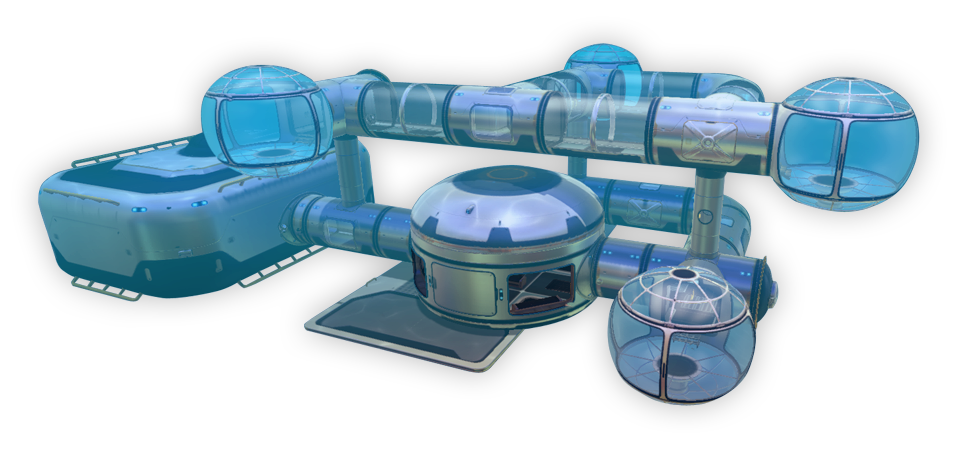
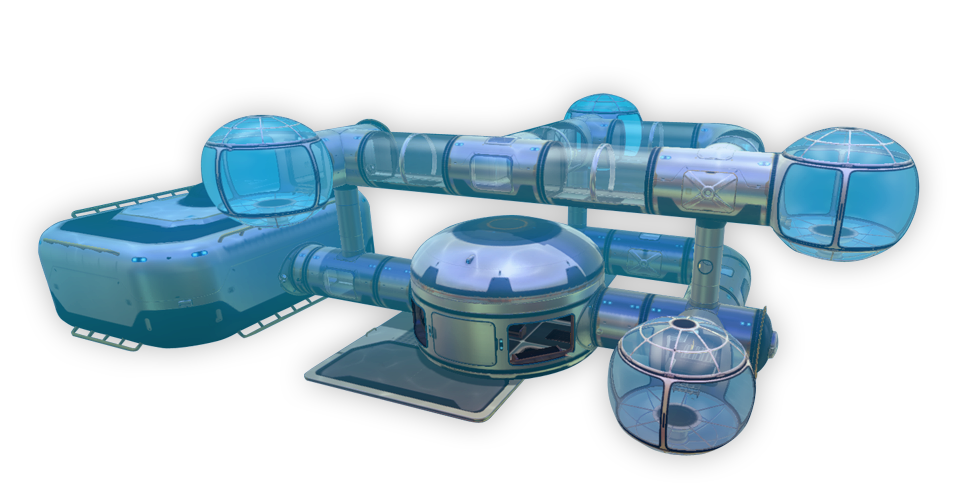
Got the base diagram looking nice and added grand reef image.

diff --git a/index.html b/index.html
@@ -102,28 +102,52 @@
                                 data-anchor-target="#slide-1 img">
                                 <img src="img/logos/subnautica_logo_small.png" />
                                 <h2>Habitat Update</h2>
-                            </div> 
-
-                            <div class="sea-surface"></div>                               
+                            </div>                
 
 			    		</div>
 		        	</div>
 	        	</div>
 		    </section>
+
+            <section id="slide-2" class="homeSlide">
+                <div class="bcg">
+                    <div class="hsContainer">
+                        <div class="hsContent">
+                            
+                            <div data-center="opacity: 1" data--200-bottom="opacity: 0" data-206-top="opacity: 1" data-106-top="opacity: 0" data-anchor-target="#slide-2 h2">
+                                <h2>Nice Précis of the Update</h2>
+                                <p>Screenshots and lots of nice copy.</p>             
+
+                            </div>
+                            
+                            <div class="sea-surface"></div>   
+
+                        </div>
+                    </div>
+                </div>
+                
+            </section>
 		    
-		    <section id="slide-2" class="homeSlide">
+		    <section id="slide-3" class="homeSlide">
 		    	<div class="bcg">
 			    	<div class="hsContainer">
 			    		<div class="hsContent">
-				    		<h2 style="margin-top:-275px;">Sea bases just got bigger.</h2>
+				    		<h2 style="margin-bottom:75px;">Sea bases just got bigger.</h2>
 
 
-                            <div id="base-diagram" data-center="opacity:1;" data-bottom-top="opacity:0;" data-anchor-target="#slide-2">
-
+                            <div id="base-diagram" >
+                                <img id="base-arrows" src="img/bases/base_arrows.svg" data-center="opacity:1;" data-206-top="opacity: 0;" data-anchor-target="#slide-3" />
+                                <div class="base-diagram-copy" data-center="left: 325px; bottom: -20px;" data-206-top="left: -200px;" data-anchor-target="#slide-3"><h4>Large Compartment</h4></div>
+                                <div class="base-diagram-copy" data-center="right: 70px; top: 10px;" data-206-top="right: -200px;" data-anchor-target="#slide-3"><h4>Vertical Connector</h4></div>
+                                <div class="base-diagram-copy" data-center="right: 0px; bottom: 50px;" data-206-top="right: -200px;" data-anchor-target="#slide-3"><h4>Observatory</h4></div>
+                                <div class="base-diagram-copy" data-center="left: 200px; top: 30px;" data-206-top="left: -200px;" data-anchor-target="#slide-3"><h4>Glass Hallway</h4></div>
+                                <div class="base-diagram-copy" data-center="left: 100px; bottom: 75px;" data-206-top="left: -200px;" data-anchor-target="#slide-3"><h4>Moon Pool</h4></div>
+                                </div>
+                                
                             </div>
 
                             <!--
-                            <div class="img-grid" data-center="top:20%; left:25%;" data-start="left:0%;" data-center-top="left:0%;" data-anchor-target="#slide-2">
+                            <div class="img-grid" data-center="top:20%; left:25%;" data-start="left:0%;" data-center-top="left:0%;" data-anchor-target="#slide-3">
                                 <img src="img/bases/subnautica_base_generic.jpg" class="img-responsive" alt="subnautica large compartment" />
                                 <h3>Large Compartment</h3>
                                 <p>A large, general purpose compartment. Customise it to your needs with ladders, equipment storage, windows, reinforcements, hatches, and more.</p>
@@ -134,7 +158,7 @@
                             </div>
      
 
-                            <div class="img-grid" data-center="top:20%; right:25%;" data-start="right:0%;" data-center-top="right:0%;" data-anchor-target="#slide-2">
+                            <div class="img-grid" data-center="top:20%; right:25%;" data-start="right:0%;" data-center-top="right:0%;" data-anchor-target="#slide-3">
                                 <img src="img/bases/subnautica_base_observatory.jpg"  class="img-responsive" alt="subnautica observatory" />
                                 <h3>Observatory</h3>
                                 <p>A large, glass enclosed compartment. Enjoy the serenity of the ocean with sweeping 360 degree views.</p>
@@ -150,38 +174,36 @@
 		    	</div>
 		    </section>
 
-            <section id="slide-3" class="homeSlide">
-            	<div class="bcg" data-center="background-position: 50% 0px;" data-bottom-top="background-position: 50% 100px;" data-top-bottom="background-position: 50% -100px;" data-anchor-target="#slide-3">
+            <section id="slide-4" class="homeSlide">
+            	<div class="bcg" data-center="background-position: 50% 0px;" data-bottom-top="background-position: 50% 100px;" data-top-bottom="background-position: 50% -100px;" data-anchor-target="#slide-4">
                 	<div class="hsContainer">
                 		<div class="hsContent">
-                            <div class="big-picture-copy" data-center="opacity: 1" data--200-bottom="opacity: 0" data-206-top="opacity: 1" data-anchor-target="#slide-3 h3">
-            		    		<h3>Sea bases just got bigger.</h3>
+                            <div class="transition"></div>
+                            <div class="big-picture-copy" data-center="opacity: 1" data--200-bottom="opacity: 0" data-206-top="opacity: 1" data-anchor-target="#slide-4 h3">
+            		    		<h3>Dive into the Grand Reef.</h3>
             	    	    </div>
-                            <div class="big-picture-copy" data-center="left:30%; top:30%"><h4>Large Compartment</h4></div>
-                            <div class="big-picture-copy"><h4>Vertical Connector</h4></div>
-                            <div class="big-picture-copy"><h4>Observatory</h4></div>
-                            <div class="big-picture-copy"><h4>Glass Hallway</h4></div>
+                            
                 	   </div>
                 	
                 </div>
             </section>
 		    
-    		<section id="slide-4" class="homeSlide">
+    		<section id="slide-5" class="homeSlide">
                 <div class="bcg">
                     <div class="hsContainer">
                         <div class="hsContent">
-                            <h2 data-center="opacity: 1" data--200-bottom="opacity: 0" data-206-top="opacity: 1" data-106-top="opacity: 0" data-anchor-target="#slide-4 h2">Some really cool stuff here.</h2>
-                            <p data-center="opacity: 1" data--200-bottom="opacity: 0" data-206-top="opacity: 1" data-106-top="opacity: 0" data-anchor-target="#slide-4 h2">Proably some videos and some awesome text, maybe the moonpool if it makes it in! And some sweet transitions too, like pictures focusing in from a blur, it's gonna be fuckin' mega.</p>
+                            <h2 data-center="opacity: 1" data--200-bottom="opacity: 0" data-206-top="opacity: 1" data-106-top="opacity: 0" data-anchor-target="#slide-5 h2">Some really cool stuff here.</h2>
+                            <p data-center="opacity: 1" data--200-bottom="opacity: 0" data-206-top="opacity: 1" data-106-top="opacity: 0" data-anchor-target="#slide-5 h2">Proably some videos and some awesome text, maybe the moonpool if it makes it in! And some sweet transitions too, like pictures focusing in from a blur, it's gonna be fuckin' mega.</p>
                         </div>
                     </div>
                 </div>
             </section>
 		    
-		    <section id="slide-5" class="homeSlide">
-		    	<div class="bcg" data-center="background-position: 50% 0px;" data-bottom-top="background-position: 50% 100px;" data-top-bottom="background-position: 50% -100px;" data-anchor-target="#slide-5">
+		    <section id="slide-6" class="homeSlide">
+		    	<div class="bcg" data-center="background-position: 50% 0px;" data-bottom-top="background-position: 50% 100px;" data-top-bottom="background-position: 50% -100px;" data-anchor-target="#slide-6">
 			    	<div class="hsContainer">
 				    	<div class="hsContent">
-				    		<div class="big-picture-copy" data-center="opacity: 1" data-bottom-top="opacity: 0" data-anchor-target="#slide-5">
+				    		<div class="big-picture-copy" data-center="opacity: 1" data-bottom-top="opacity: 0" data-anchor-target="#slide-6">
                                 <h2>Check Out this Huge Image</h2>
                                 <p>Man, what a cool game. You should probably buy, like, five copies.<em>At least</em>.</p>
                             </div>
@@ -191,12 +213,12 @@
 		    	
 		    </section>
 
-            <section id="slide-6" class="homeSlide">
+            <section id="slide-7" class="homeSlide">
                 <div class="bcg">
                     <div class="hsContainer">
                         <div class="hsContent">
                             
-                            <div class="mail-list-form" data-bottom-top="opacity: 0;" data-center="opacity: 1" data-anchor-target="#slide-6">
+                            <div class="mail-list-form" data-bottom-top="opacity: 0;" data-center="opacity: 1" data-anchor-target="#slide-7">
                                 <h2 class = "text-center">Get development updates</h2>
                                 <p class = "text-center">Sign up to the Subnautica development mailing list! Receive a newsletter when Subnautica receives an update like this one.</p>
 

diff --git a/css/main.css b/css/main.css
@@ -202,10 +202,14 @@ video#bgvid {
 
 .big-picture-copy {
     background-color: rgba(50,50,50,0.70);
-    padding: 20px;
+    padding: 15px;
     -webkit-border-radius: 5px;
     -moz-border-radius: 5px;
     border-radius: 5px;
+}
+
+.big-picture-copy h3 {
+    margin:0px;
 }
 
 /* Slide 1 */
@@ -214,6 +218,16 @@ video#bgvid {
 #slide-1 #landing-content {
     position: relative;
     z-index: 1;
+}
+
+/* Slide 2 */
+#slide-2 .bcg {
+    background: #D3E1FF;
+    text-align: center;
+}
+
+#slide-2 h2 {
+    color:#484848;
 }
 
 .sea-surface {
@@ -225,61 +239,89 @@ video#bgvid {
     background-image:url('../img/sea_surface.png');
 }
 
-/* Slide 2 */
-#slide-2 .bcg {
+/* Slide 3 */
+#slide-3 .bcg {
     background: #e7ffff;
     background-image:url('../img/sea_background.jpg');
     text-align: center;
-}
-
-#slide-2 h2 {
-    color:#484848;
 }
 
 #base-diagram {
     position: relative;
     display: block;
     width: 960px;
-    height: 450px;
+    height: 500px;
     background-image:url('../img/bases/base_diagram.png');
     margin: auto;
     top: 65%;
 }
 
-/* Slide 3 */
-#slide-3 .bcg {background-image:url('../img/subnautica_coral_base.jpg')}
-#slide-3 .big-picture-copy {  position:absolute; top:10%; left:10%;}
+#base-arrows {
+    position: absolute;
+    top: -245px;
+    left: -360px;
+}
 
+.base-diagram-copy {
+    position: absolute;
+}
+
+.base-diagram-copy h4 {
+    text-transform: uppercase;
+    font-size: 0.9em;
+    font-weight: bold;
+}
 
 /* Slide 4 */
-#slide-4 .bcg {
+#slide-4 .bcg {background-image:url('../img/subnautica_grandreef_1.jpg')}
+#slide-4 .big-picture-copy {  position:absolute; top:10%; left:10%;}
+
+#slide-4 .transition {
+    position: absolute;
+    width: 100%;
+    height:50px;
+    top:0px;
+    left:0px;
+    background: rgba(18,59,89,1);
+    background: -moz-linear-gradient(top, rgba(18,59,89,1) 0%, rgba(18,59,89,0) 100%);
+    background: -webkit-gradient(left top, left bottom, color-stop(0%, rgba(18,59,89,1)), color-stop(100%, rgba(18,59,89,0)));
+    background: -webkit-linear-gradient(top, rgba(18,59,89,1) 0%, rgba(18,59,89,0) 100%);
+    background: -o-linear-gradient(top, rgba(18,59,89,1) 0%, rgba(18,59,89,0) 100%);
+    background: -ms-linear-gradient(top, rgba(18,59,89,1) 0%, rgba(18,59,89,0) 100%);
+    background: linear-gradient(to bottom, rgba(18,59,89,1) 0%, rgba(18,59,89,0) 100%);
+    filter: progid:DXImageTransform.Microsoft.gradient( startColorstr='#113a58', endColorstr='#113b58', GradientType=0 );
+}
+
+
+/* Slide 5 */
+#slide-5 .bcg {
     background: #334D8C;
     text-align: center
 }
 
-#slide-4 h2 {
+#slide-5 h2 {
     color:#ddd;
 }
 
-#slide-4 p {
+#slide-5 p {
     color:#ddd !important;
 }
 
 
 
-/* Slide 5 */
-#slide-5 {position: relative;}
-#slide-5 .bcg {background-image:url('../img/subnautica_kelp_base.jpg')}
-#slide-5 .big-picture-copy {  position:absolute; bottom:10%; right:10%;}
-
-
 /* Slide 6 */
-#slide-6 .bcg {
+#slide-6 {position: relative;}
+#slide-6 .bcg {background-image:url('../img/subnautica_kelp_base.jpg')}
+#slide-6 .big-picture-copy {  position:absolute; bottom:10%; right:10%;}
+
+
+/* Slide 7 */
+#slide-7 .bcg {
     background: #e7ffff;
     text-align: center
 }
 
-#slide-6 h2 {
+#slide-7 h2 {
     color:#484848;
 }
 
